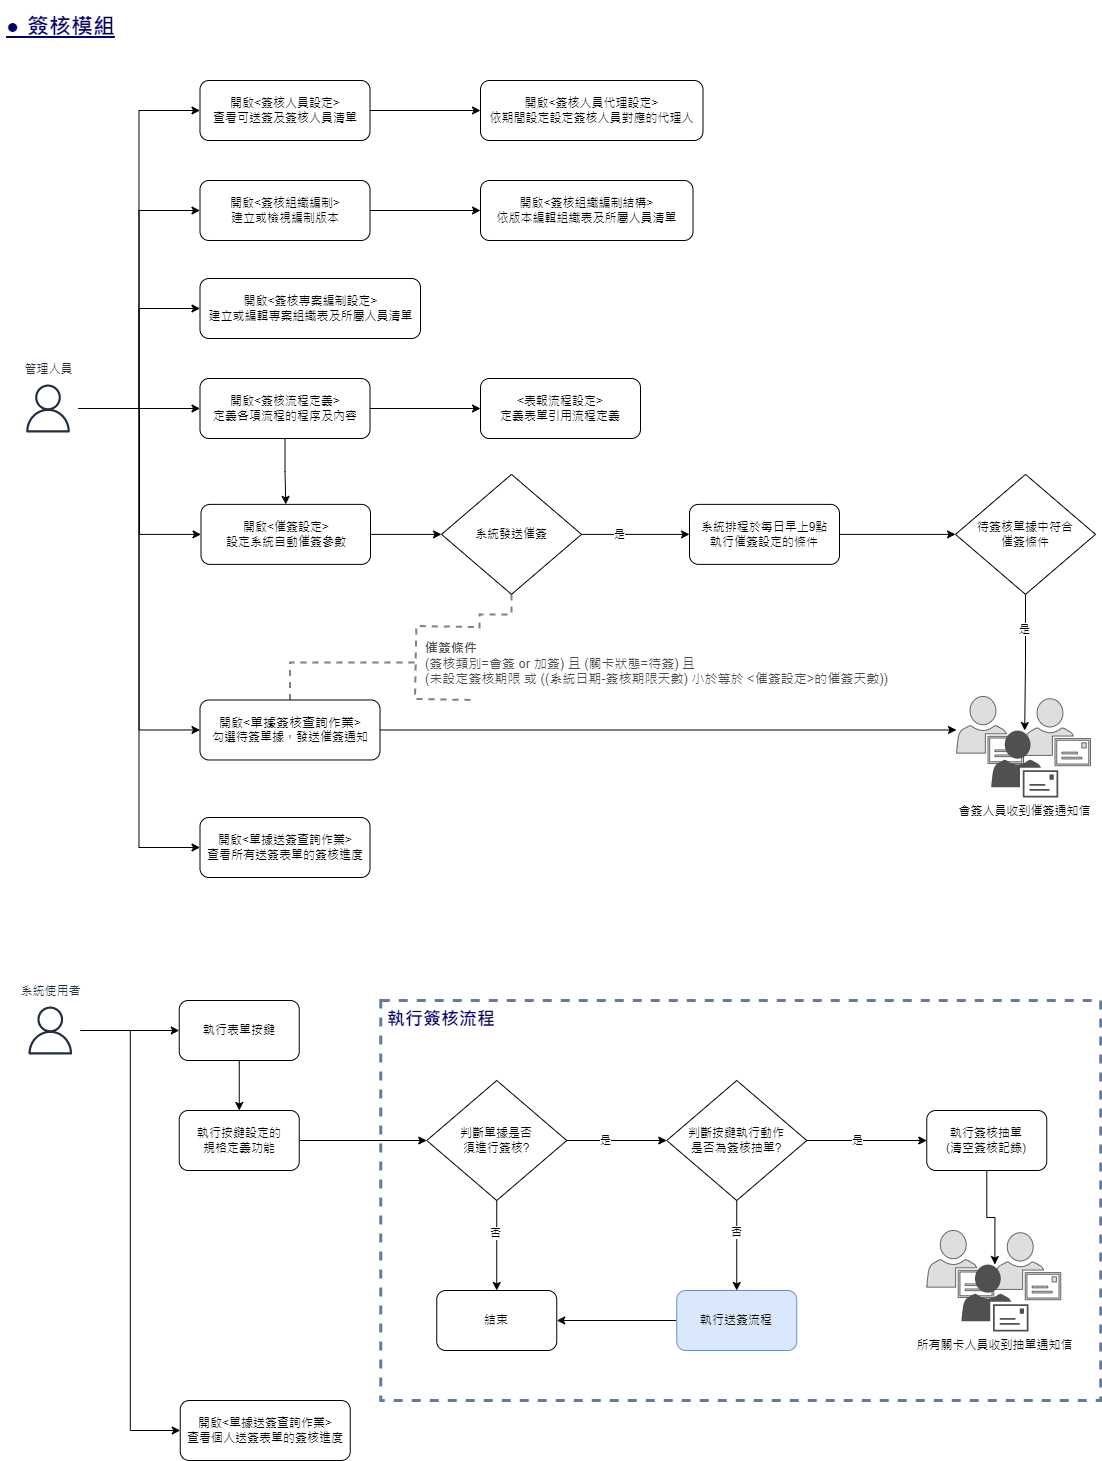
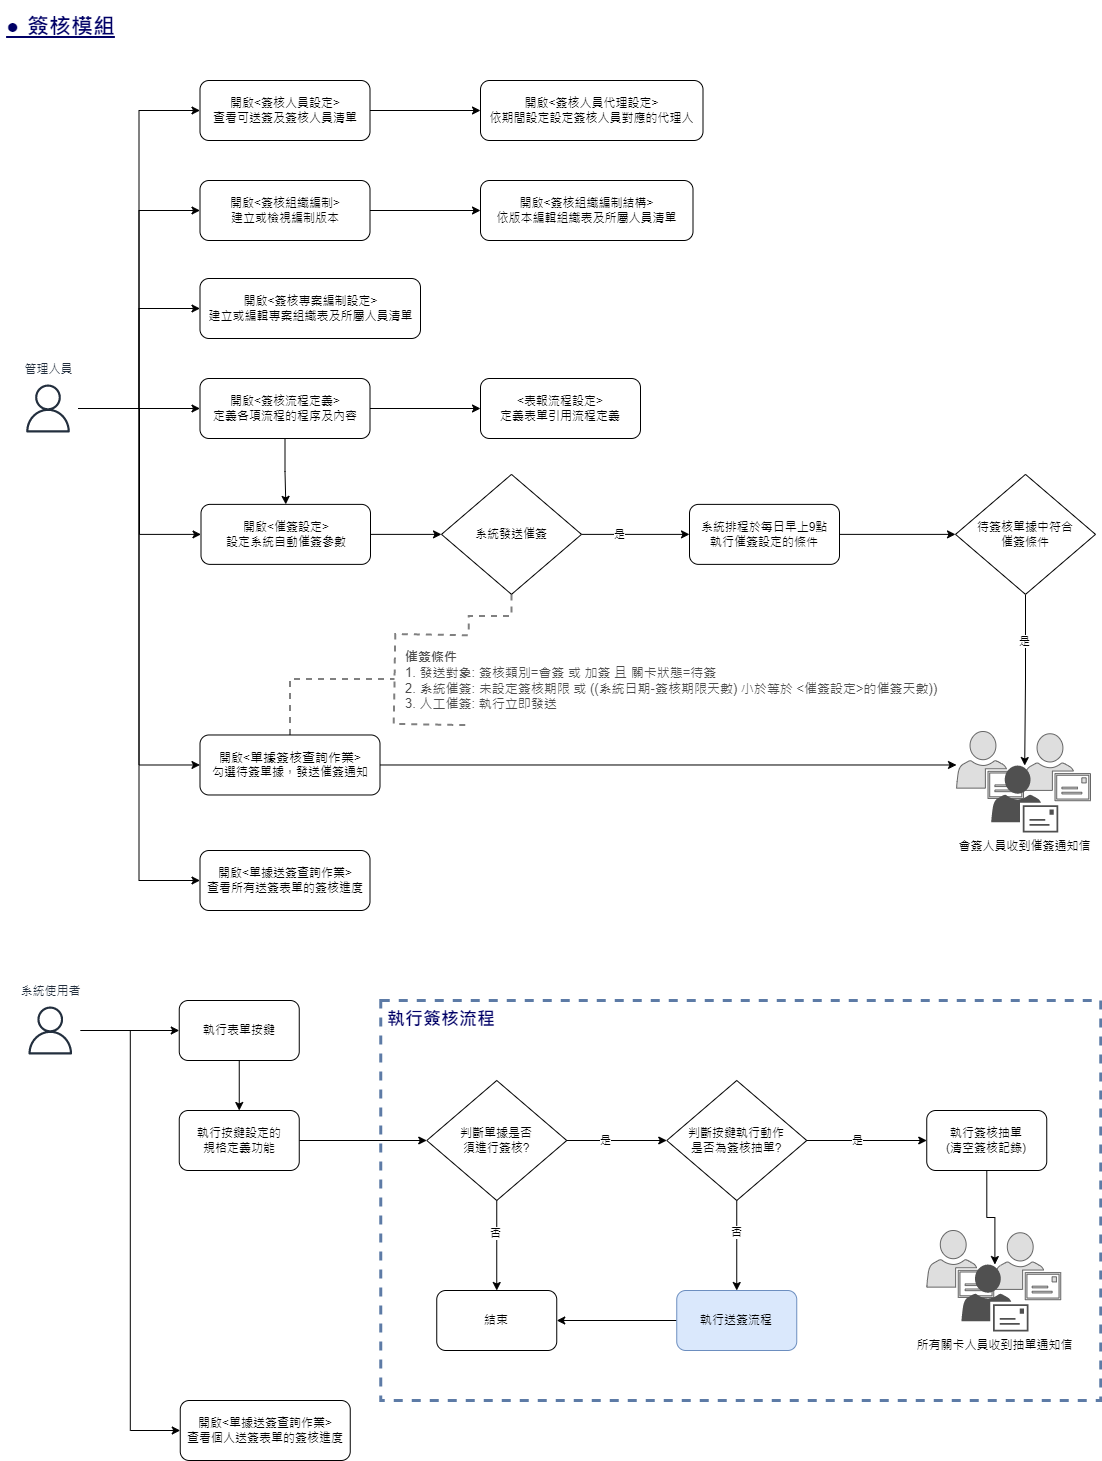
異動 簽核操作說明文件

Changed region(s): [[0.1234, 0.4312, 0.833, 0.616], [0.8639, 0.462, 1.0, 0.5852]]

diff --git a/doc/RTE_8.10.2/zh-Hant/WFS.md b/doc/RTE_8.10.2/zh-Hant/WFS.md
@@ -529,10 +529,20 @@ lang: zh_TW
 
 * 發送時機：1.關卡啟動時；2.[單據增加簽核](#FX000000003082)的修改存回時
 * 發送對象：依據關卡啟動時設定的簽核對象發送
-* 郵件主旨：【簽核申請 / 簽核知會通知 / 簽核會辦通裀】表報名稱簽核: (關卡順序)關卡名稱
+* 郵件主旨：【簽核申請 / 簽核知會通知 / 簽核會辦通知】表報名稱簽核: (關卡順序)關卡名稱
 * 郵件內容：依據[簽核流程定義](#FX000000003079):頁籤.簽核通知 或 [單據增加簽核](#FX000000003082) 的郵件內容產生
 
 ![](images/WFS-Mail_SignOff.png)
+
+## 關卡回覆通知信 {#MailLevelReply}
+
+* 發送時機：關卡結束時
+* 發送對象：[簽核流程定義](#FX000000003079):頁籤.回覆通知的設定內容
+* 郵件主旨：【簽核關卡回覆】表報名稱簽核: (關卡順序)關卡名稱
+* 郵件內容：依據[簽核流程定義](#FX000000003079):頁籤.回覆通知的郵件內容產生
+
+![](images/WFS-Mail_LevelReply.png)
+
 
 ## 抽單通知信 {#MailDraw}
 
